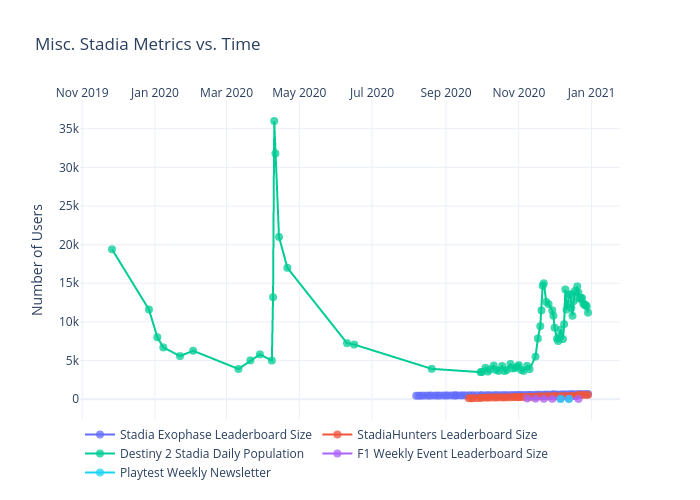
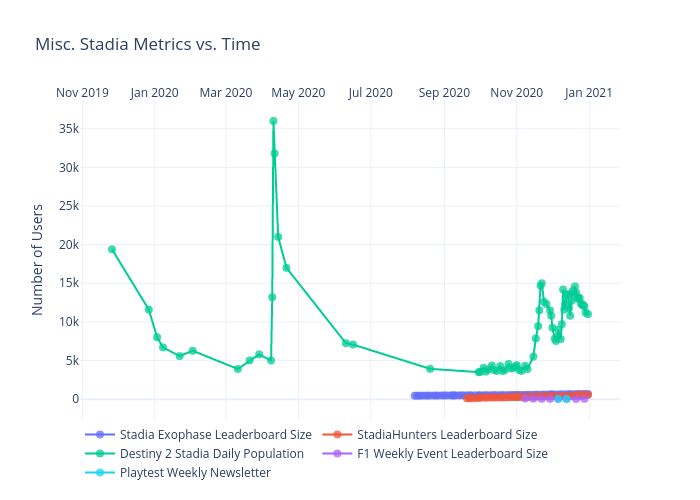
Add files via upload

diff --git a/misc/figure.js b/misc/figure.js
@@ -119,7 +119,20 @@ var figure = {
                 "2020-12-28",
                 "2020-12-29",
                 "2020-12-31",
-                "2021-01-03"
+                "2021-01-03",
+                "2021-01-05",
+                "2021-01-07",
+                "2021-01-10",
+                "2021-01-12",
+                "2021-01-14",
+                "2021-01-17",
+                "2021-01-19",
+                "2021-01-21",
+                "2021-01-24",
+                "2021-01-26",
+                "2021-01-28",
+                "2021-01-31",
+                "2021-02-02"
             ],
             "ysrc": "jdeslip:366:f1d668",
             "y": [
@@ -228,7 +241,8 @@ var figure = {
                 "",
                 "668",
                 "",
-                "671"
+                "671",
+                "676"
             ],
             "marker": {
                 "size": 8,
@@ -357,7 +371,20 @@ var figure = {
                 "2020-12-28",
                 "2020-12-29",
                 "2020-12-31",
-                "2021-01-03"
+                "2021-01-03",
+                "2021-01-05",
+                "2021-01-07",
+                "2021-01-10",
+                "2021-01-12",
+                "2021-01-14",
+                "2021-01-17",
+                "2021-01-19",
+                "2021-01-21",
+                "2021-01-24",
+                "2021-01-26",
+                "2021-01-28",
+                "2021-01-31",
+                "2021-02-02"
             ],
             "ysrc": "jdeslip:366:1301eb",
             "y": [
@@ -466,7 +493,8 @@ var figure = {
                 "",
                 "558",
                 "",
-                "561"
+                "561",
+                "567"
             ],
             "marker": {
                 "size": 8,
@@ -595,7 +623,20 @@ var figure = {
                 "2020-12-28",
                 "2020-12-29",
                 "2020-12-31",
-                "2021-01-03"
+                "2021-01-03",
+                "2021-01-05",
+                "2021-01-07",
+                "2021-01-10",
+                "2021-01-12",
+                "2021-01-14",
+                "2021-01-17",
+                "2021-01-19",
+                "2021-01-21",
+                "2021-01-24",
+                "2021-01-26",
+                "2021-01-28",
+                "2021-01-31",
+                "2021-02-02"
             ],
             "ysrc": "jdeslip:366:6c82e3",
             "y": [
@@ -704,7 +745,8 @@ var figure = {
                 "12200",
                 "12200",
                 "12000",
-                "11200"
+                "11200",
+                "11000"
             ],
             "marker": {
                 "size": 8,
@@ -833,7 +875,20 @@ var figure = {
                 "2020-12-28",
                 "2020-12-29",
                 "2020-12-31",
-                "2021-01-03"
+                "2021-01-03",
+                "2021-01-05",
+                "2021-01-07",
+                "2021-01-10",
+                "2021-01-12",
+                "2021-01-14",
+                "2021-01-17",
+                "2021-01-19",
+                "2021-01-21",
+                "2021-01-24",
+                "2021-01-26",
+                "2021-01-28",
+                "2021-01-31",
+                "2021-02-02"
             ],
             "ysrc": "jdeslip:366:044d04",
             "y": [
@@ -934,7 +989,14 @@ var figure = {
                 null,
                 null,
                 "",
-                "32"
+                "32",
+                null,
+                null,
+                null,
+                null,
+                null,
+                null,
+                "51"
             ],
             "marker": {
                 "size": 8,
@@ -1063,7 +1125,20 @@ var figure = {
                 "2020-12-28",
                 "2020-12-29",
                 "2020-12-31",
-                "2021-01-03"
+                "2021-01-03",
+                "2021-01-05",
+                "2021-01-07",
+                "2021-01-10",
+                "2021-01-12",
+                "2021-01-14",
+                "2021-01-17",
+                "2021-01-19",
+                "2021-01-21",
+                "2021-01-24",
+                "2021-01-26",
+                "2021-01-28",
+                "2021-01-31",
+                "2021-02-02"
             ],
             "ysrc": "jdeslip:366:ed4bb0",
             "y": [
@@ -1174,8 +1249,8 @@ var figure = {
             "side": "top",
             "type": "date",
             "range": [
-                "2019-11-01 02:36:12.8334",
-                "2021-01-22 21:23:47.1666"
+                "2019-11-01 04:57:11.2818",
+                "2021-01-24 19:02:48.7182"
             ],
             "title": {
                 "text": ""
@@ -1185,8 +1260,8 @@ var figure = {
         "yaxis": {
             "type": "linear",
             "range": [
-                -3153.3450620934354,
-                39180.34506209344
+                -3360.311674774149,
+                39387.31167477415
             ],
             "title": {
                 "text": "Number of Users"
